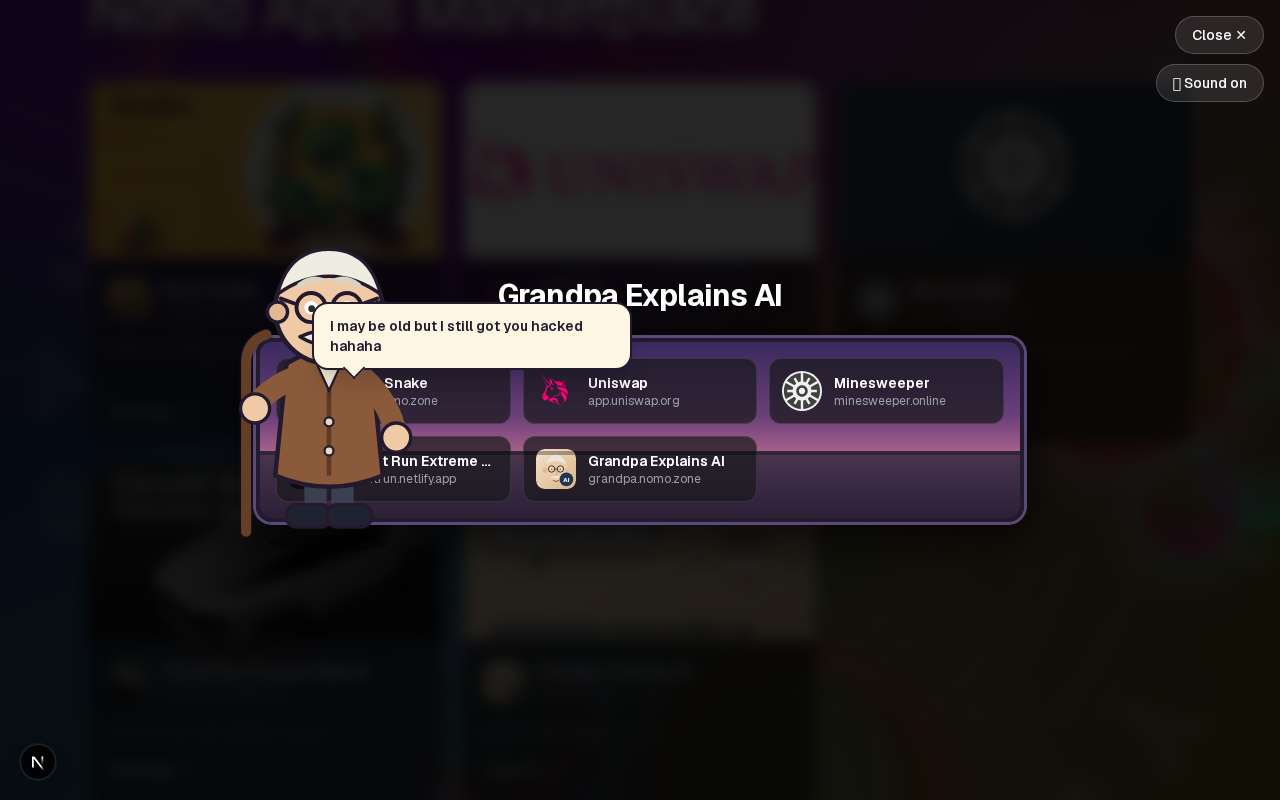
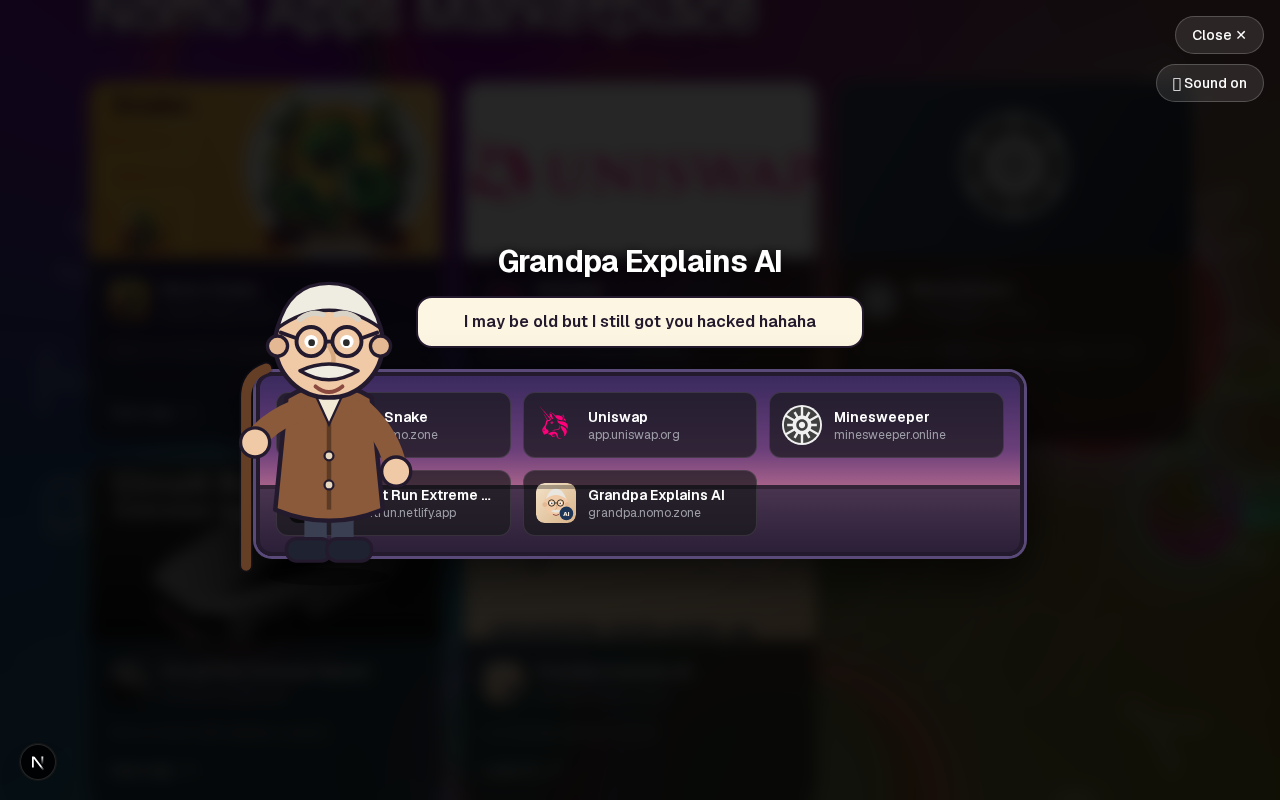
Prank polish: bubble above the stage, cop outside the cell, spray shout
- Speech bubble moved above the stage so the characters stay fully visible.
- In the jail beat the cop now stands outside the cell; only grandpa is locked in.
- Grandpa shouts 'I'm deleting your apps! One by one! Hahaha!' while spraying.

Changed region(s): [[0.1875, 0.3125, 0.8125, 0.7188]]

diff --git a/src/components/grandpa-prank/grandpa-prank.tsx b/src/components/grandpa-prank/grandpa-prank.tsx
@@ -21,7 +21,7 @@ const END_AT = 20000;
 const SPEECH: Record<Phase, string | null> = {
   enter: "I may be old but I still got you hacked hahaha",
   mask: "Time to get to work...",
-  spray: "Hahaha! Every app goes black!",
+  spray: "I'm deleting your apps! One by one! Hahaha!",
   police: "Stop right there, you scoundrel!",
   jail: "Aww, busted...",
   clean: "Alright, alright, let me clean this up.",
@@ -159,22 +159,32 @@ export function GrandpaPrank({ apps, onDone }: { apps: App[]; onDone: () => void
       </button>
 
       <div className="relative mx-auto w-full max-w-5xl px-4 py-10">
-        <h2 className="mb-6 text-center text-2xl font-bold tracking-tight text-white [text-shadow:0_2px_14px_rgba(0,0,0,0.8)] sm:text-3xl">
+        <h2 className="mb-4 text-center text-2xl font-bold tracking-tight text-white [text-shadow:0_2px_14px_rgba(0,0,0,0.8)] sm:text-3xl">
           Grandpa Explains AI
         </h2>
 
+        {/* Speech bubble sits above the stage so the characters stay fully visible. */}
+        {SPEECH[phase] && (
+          <div className="mx-auto mb-6 max-w-md rounded-2xl border-2 border-[#241a2e] bg-[#fdf6e3] px-4 py-3 text-center text-sm font-semibold text-[#241a2e] shadow-xl sm:text-base">
+            {SPEECH[phase]}
+          </div>
+        )}
+
         {inJail ? (
-          <div className="mx-auto h-[46vh] min-h-[260px] w-full max-w-3xl">
-            <JailCell>
-              <div className="absolute inset-0 flex items-end justify-center gap-6 pb-2">
-                <div className={`${characterBox} translate-x-4`}>
-                  <OldMan mask prop="none" />
+          // Cop stands outside the cell; only grandpa is locked inside.
+          <div className="mx-auto flex max-w-3xl items-end justify-center gap-6">
+            <div className="h-[46vh] min-h-[260px] w-[58%]">
+              <JailCell>
+                <div className="absolute inset-0 flex items-end justify-center pb-2">
+                  <div className={characterBox}>
+                    <OldMan mask prop="none" />
+                  </div>
                 </div>
-                <div className={`${characterBox} -translate-x-4`}>
-                  <Cop mode="jail" />
-                </div>
-              </div>
-            </JailCell>
+              </JailCell>
+            </div>
+            <div className={`${characterBox} mb-2 shrink-0`}>
+              <Cop mode="jail" />
+            </div>
           </div>
         ) : (
           // Point-and-click "scene": a framed stage with a sky-to-floor backdrop.
@@ -214,18 +224,6 @@ export function GrandpaPrank({ apps, onDone }: { apps: App[]; onDone: () => void
             </div>
           )}
         </div>
-
-        {/* Speech bubble */}
-        {SPEECH[phase] && !inJail && (
-          <div
-            className={`absolute top-16 max-w-xs rounded-2xl border-2 border-[#241a2e] bg-[#fdf6e3] px-4 py-3 text-sm font-semibold text-[#241a2e] shadow-xl transition-all duration-500 ${
-              grandpaRight ? "left-[54%]" : "left-[18%]"
-            }`}
-          >
-            {SPEECH[phase]}
-            <span className="absolute -bottom-2 left-8 h-4 w-4 rotate-45 border-b-2 border-r-2 border-[#241a2e] bg-[#fdf6e3]" />
-          </div>
-        )}
       </div>
     </div>
   );
